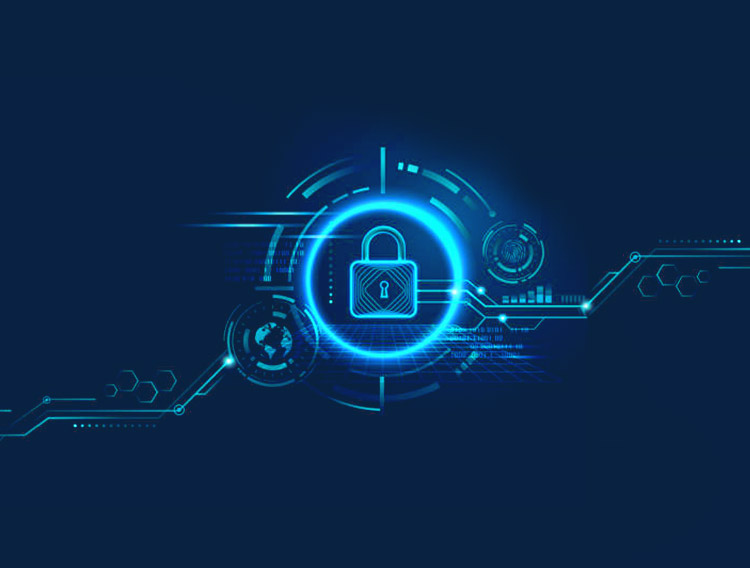
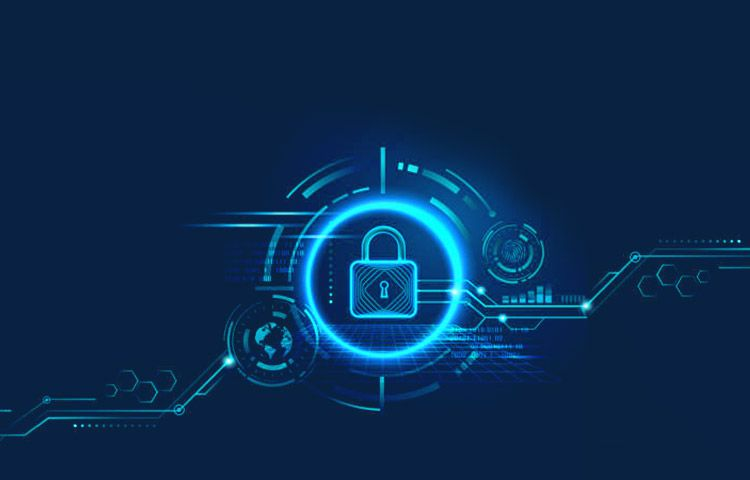
UI Enhancement for AgentResetPassword

Changed region(s): [[0.0, 0.25, 1.0, 0.9062], [0.0307, 0.875, 0.0613, 0.9062], [0.0, 0.9062, 0.0307, 0.9375]]

diff --git a/packages/agent/features/auth/AgentResetPassword.tsx b/packages/agent/features/auth/AgentResetPassword.tsx
@@ -6,6 +6,7 @@ import TimerButton, {
 } from 'agent/components/TimerButton'
 import useAgentAlert from 'agent/hooks/useAgentAlert'
 import useOnAgentLogout from 'agent/hooks/useOnAgentLogout'
+import CommonBackHeader from 'agent/navigation/components/CommonBackHeader'
 import { useSendOTPMutation } from 'agent/services/accountApi'
 import { IResponse } from 'agent/services/common/agentAxiosBaseQuery'
 import { useResetPasswordMutation } from 'agent/services/userApi'
@@ -13,6 +14,7 @@ import { AgentAuthActions } from 'agent/store/agentAuthReducer'
 import { HAS_LOG_IN_MAP } from 'agent/utils/authUtil'
 import validation, { getErrorMessage } from 'agent/utils/validation'
 import { AGENT_STACK_CONTENT_PADDING } from 'app/constant/sizes'
+import useContainerDimension from 'app/hooks/useContainerDimension'
 import useContextualRouter from 'app/navigation/contextual/useContextualRouter'
 import { useAgentLocalization } from 'app/provider/localization'
 import { useSafeArea } from 'app/provider/safe-area/use-safe-area'
@@ -34,14 +36,14 @@ interface ResetPasswordValues {
 const AgentResetPassword = () => {
   const { t } = useAgentLocalization()
   const { theme } = useDripsyTheme()
+  const { width } = useContainerDimension()
   const { openModal } = useModal()
   const { showAlert } = useAgentAlert()
   const { push, replace } = useContextualRouter()
   const OTPRef = useRef<ITimerButtonForwardRef>(null)
   const [isLoading, setIsLoading] = useState(false)
   const [isOtpLoading, setIsOtpLoading] = useState(false)
-  const { width } = useWindowDimensions()
-  const { top } = useSafeArea()
+  const { top, bottom } = useSafeArea()
   const dispatch = useDispatch()
   const { logout } = useOnAgentLogout()
 
@@ -140,30 +142,47 @@ const AgentResetPassword = () => {
       setIsOtpLoading(false)
     }
   }
-
   return (
     <>
-      <View>
-        <IconButton
-          name="arrow-down"
-          color={'white'}
-          size={30}
-          onPress={() => {
-            logout()
-            replace('/auth/login')
-          }}
+      <View
+        sx={{
+          position: Platform.OS === 'web' ? 'fixed' : 'relative',
+          zIndex: 1,
+          width: '100%',
+          maxWidth: 'container',
+          top: 0,
+          backgroundColor: '#0a2143',
+          paddingTop: top,
+        }}
+      >
+        <View
           sx={{
-            zIndex: 2,
-            top: top ? top : 15,
-            position: 'absolute',
-            transform: [{ rotateZ: '90deg' }],
-            left: 15,
+            flexDirection: 'row',
+            py: '$3',
+            px: '$3',
           }}
-        />
+        >
+          <IconButton
+            name="arrow-down"
+            sx={{ transform: [{ rotateZ: '90deg' }] }}
+            size={25}
+            onPress={() => {
+              logout()
+              replace('/auth/login')
+            }}
+          />
+        </View>
+      </View>
+      <View
+        sx={{
+          alignItems: 'center',
+          paddingTop: Platform.OS === 'web' ? 45 : 0,
+        }}
+      >
         <Image
           source={require('app/assets/images/auth/pwd.jpg')}
           sx={{
-            height: 350 + (top ? top : 15),
+            height: 325,
             width: Math.min(width, theme.sizes.container),
           }}
           resizeMode={'cover'}
@@ -172,24 +191,24 @@ const AgentResetPassword = () => {
           source={require('app/assets/images/logo.png')}
           sx={{
             position: 'absolute',
-            height: 100,
-            width: Math.min(width, theme.sizes.container),
-            top: top ? top : 15,
+            height: Math.min(75, width * 0.25),
+            // width: Math.min(width, theme.sizes.container),
+            aspectRatio: 67 / 24,
+            // top:,
           }}
           resizeMode={'contain'}
         />
       </View>
-
       <ScrollView
         contentContainerStyle={{
           paddingHorizontal: 20,
           paddingTop: AGENT_STACK_CONTENT_PADDING,
+          zIndex: 5,
         }}
         sx={{
           borderRadius: 10,
-          bg: 'transparent',
           backgroundColor: 'white',
-          top: -top + -10,
+          marginTop: -25,
         }}
       >
         <Flex
